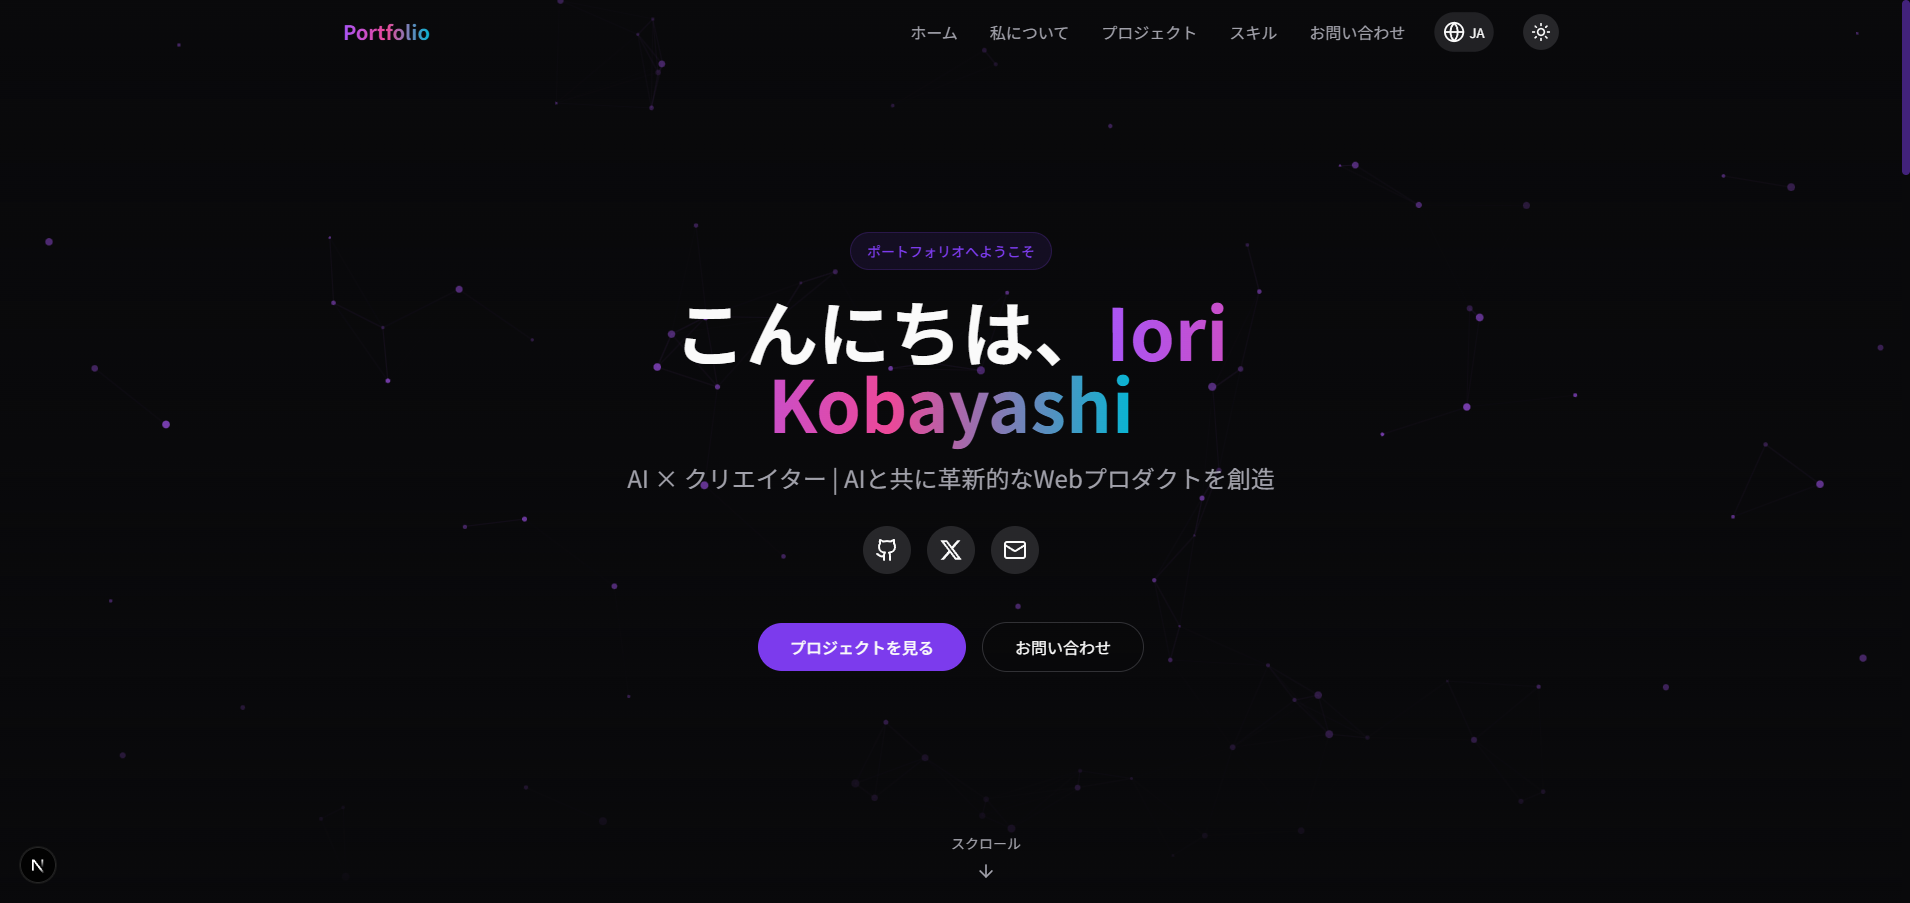
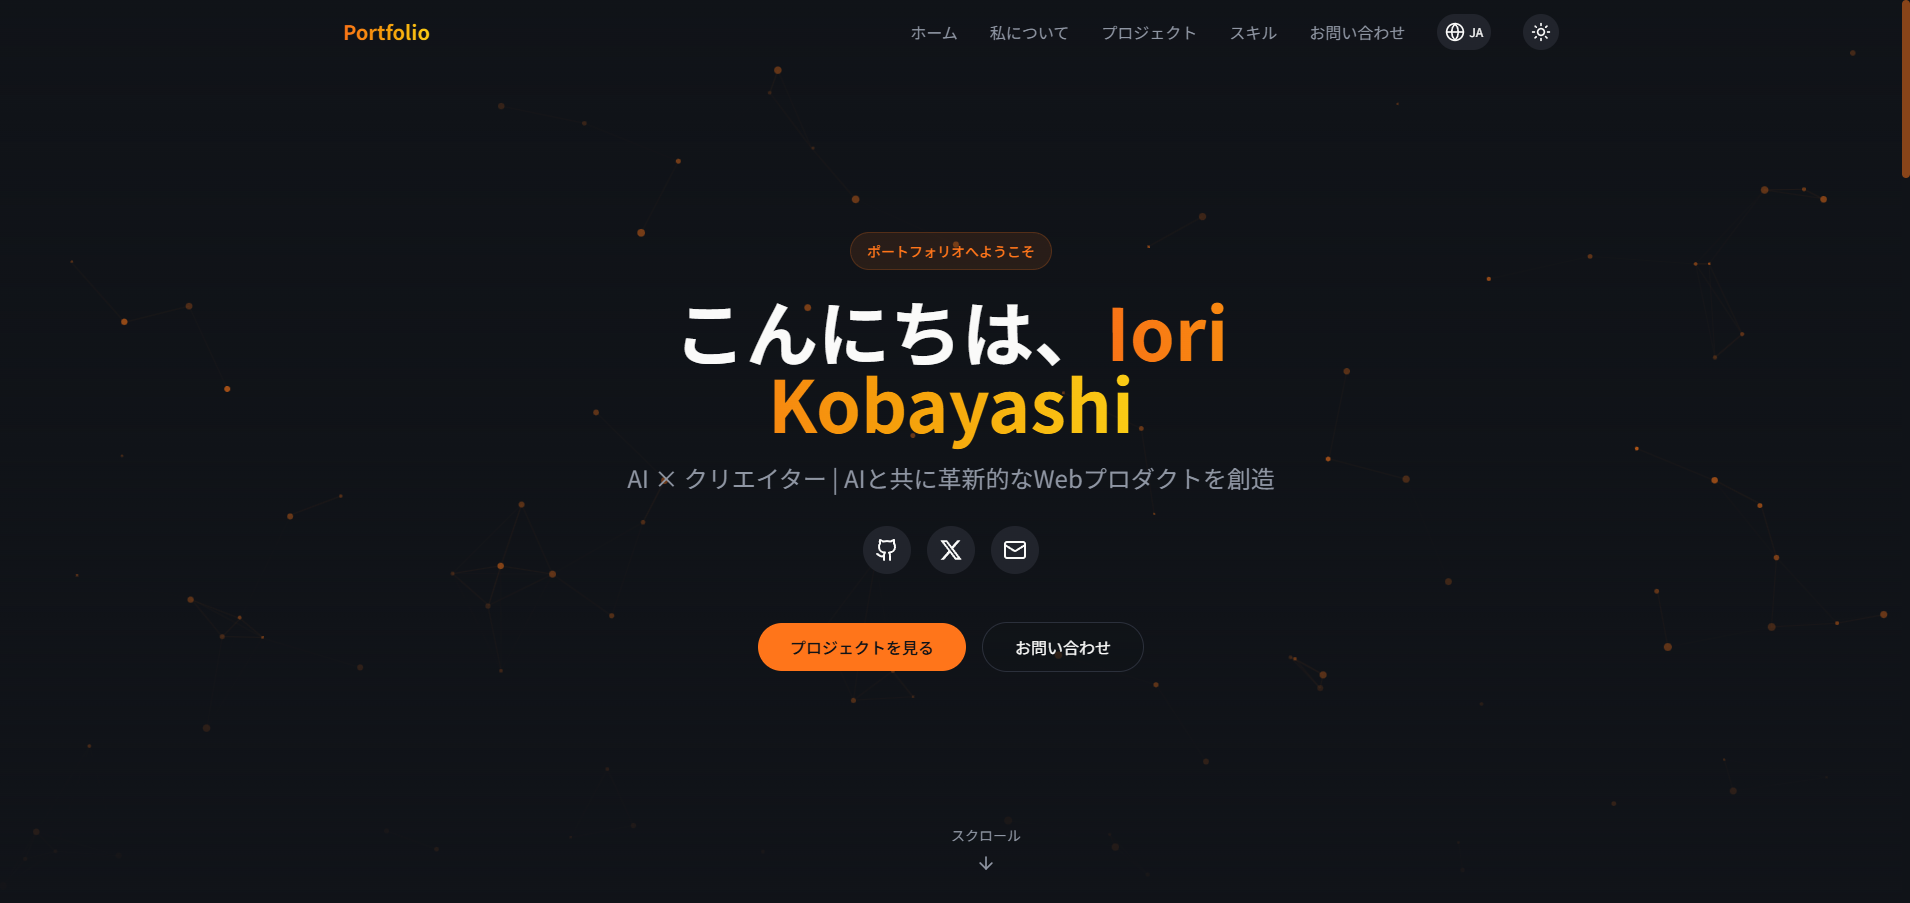
fix: Update portfolio project image and metadata
- Replace portfolio.png with current site screenshot
- Update tags to reflect actual tech stack (Next.js, TypeScript)
- Update color to match new orange theme
- Set correct GitHub and demo URLs
- Add projects data test file

🤖 Generated with [Claude Code](https://claude.com/claude-code)

diff --git a/src/data/projects.test.ts b/src/data/projects.test.ts
@@ -1,0 +1,28 @@
+import { describe, it, expect } from "vitest";
+import { projects, type Project } from "./projects";
+
+describe("projects data", () => {
+  it("exports an array of projects", () => {
+    expect(Array.isArray(projects)).toBe(true);
+    expect(projects.length).toBeGreaterThan(0);
+  });
+
+  it("each project has required fields", () => {
+    projects.forEach((project: Project) => {
+      expect(project.id).toBeDefined();
+      expect(typeof project.id).toBe("number");
+      expect(project.titleKey).toBeDefined();
+      expect(project.descriptionKey).toBeDefined();
+      expect(Array.isArray(project.tags)).toBe(true);
+      expect(project.image).toBeDefined();
+      expect(project.color).toBeDefined();
+      expect(["ai", "web", "mobile", "hp"]).toContain(project.category);
+    });
+  });
+
+  it("has unique project ids", () => {
+    const ids = projects.map((p) => p.id);
+    const uniqueIds = new Set(ids);
+    expect(uniqueIds.size).toBe(ids.length);
+  });
+});

diff --git a/src/data/projects.ts b/src/data/projects.ts
@@ -36,12 +36,12 @@ export const projects: Project[] = [
     id: 3,
     titleKey: "items.portfolio.title",
     descriptionKey: "items.portfolio.description",
-    tags: ["React", "Framer Motion", "Tailwind CSS"],
+    tags: ["Next.js", "TypeScript", "Framer Motion", "Tailwind CSS"],
     image: "/projects/portfolio.png",
-    color: "from-cyan-500 to-blue-500",
+    color: "from-orange-500 to-amber-500",
     category: "web",
-    github: "https://github.com",
-    demo: "https://demo.com",
+    github: "https://github.com/sa9saQ/my-portfolio",
+    demo: "https://my-portfolio-mocha-three-93.vercel.app",
   },
   {
     id: 4,
